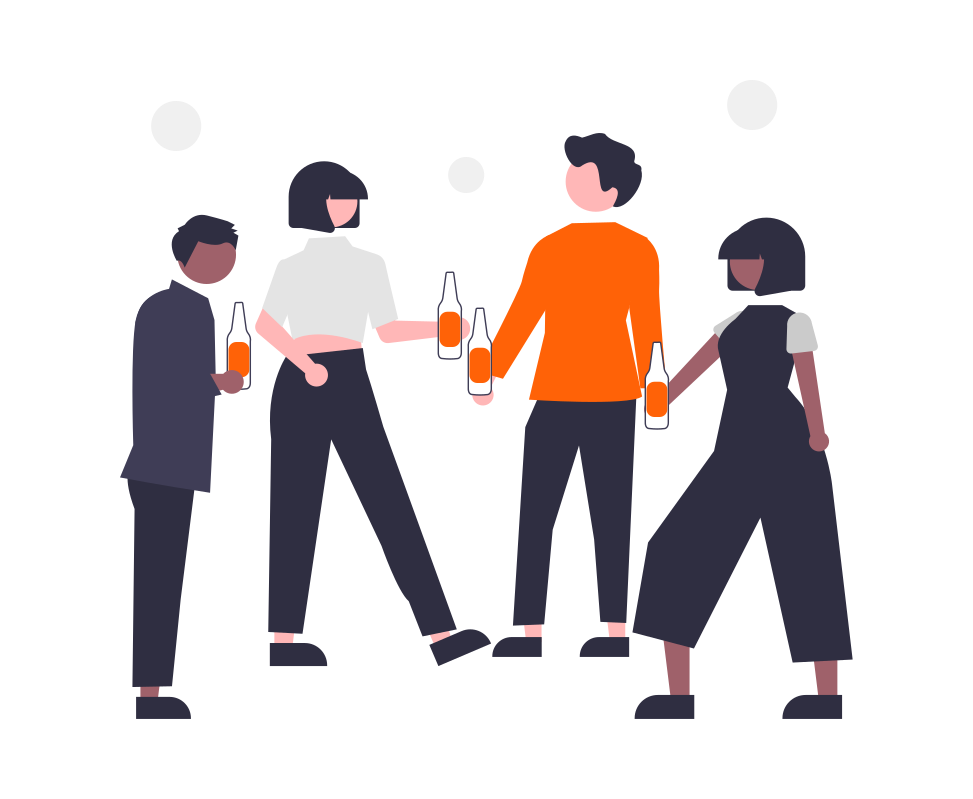
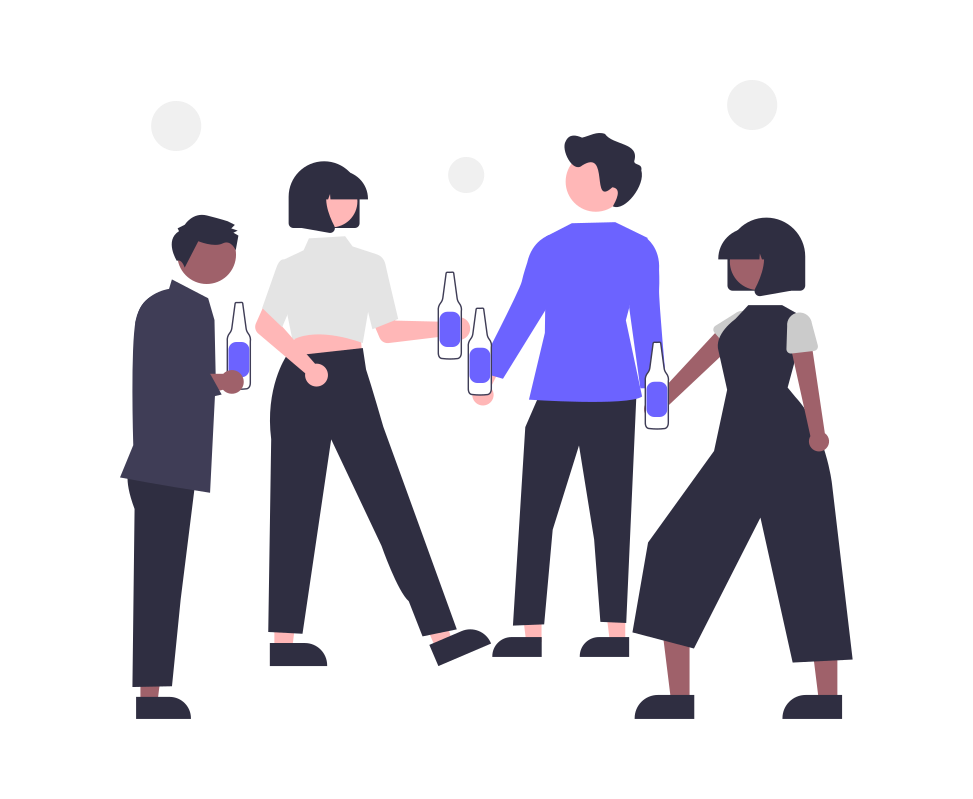
theme changed

Changed region(s): [[0.4317, 0.2703, 0.7091, 0.5407], [0.2158, 0.4205, 0.2775, 0.4806]]

diff --git a/index.html b/index.html
@@ -4,7 +4,7 @@
 <head>
   <meta charset="utf-8">
   <meta content="width=device-width, initial-scale=1.0" name="viewport">
-  <meta name="theme-color" content="#fe6e2c">
+  <meta name="theme-color" content="#5faee3">
   <title>Devs Education </title>
   <meta content="" name="description">
   <meta content="" name="keywords">
